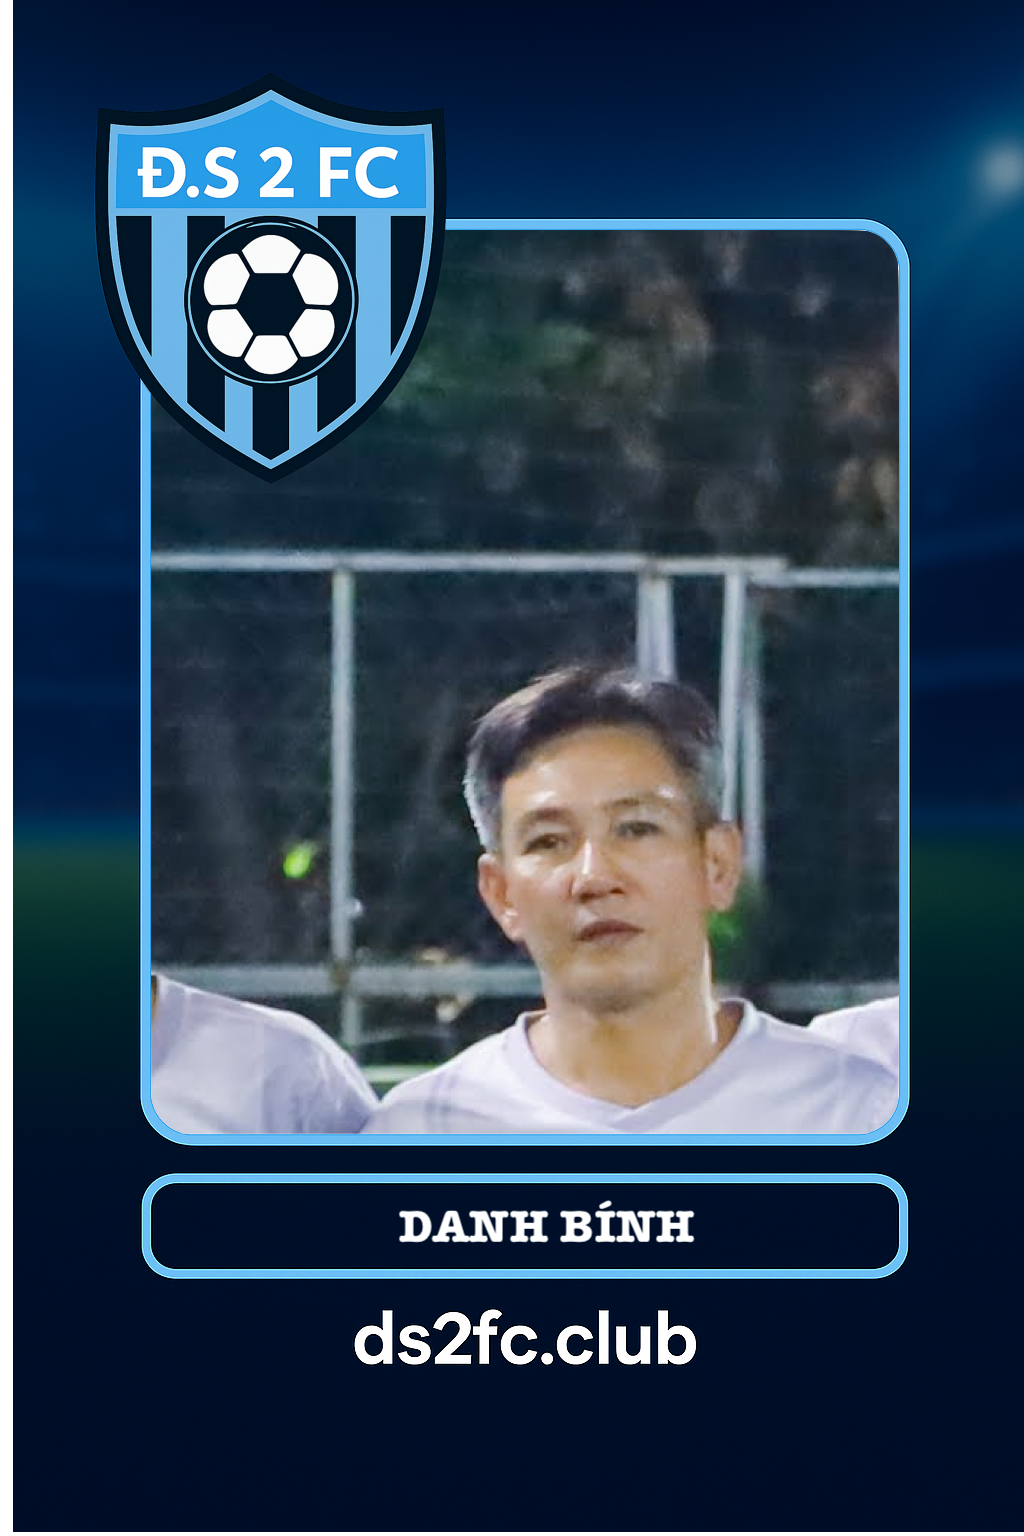
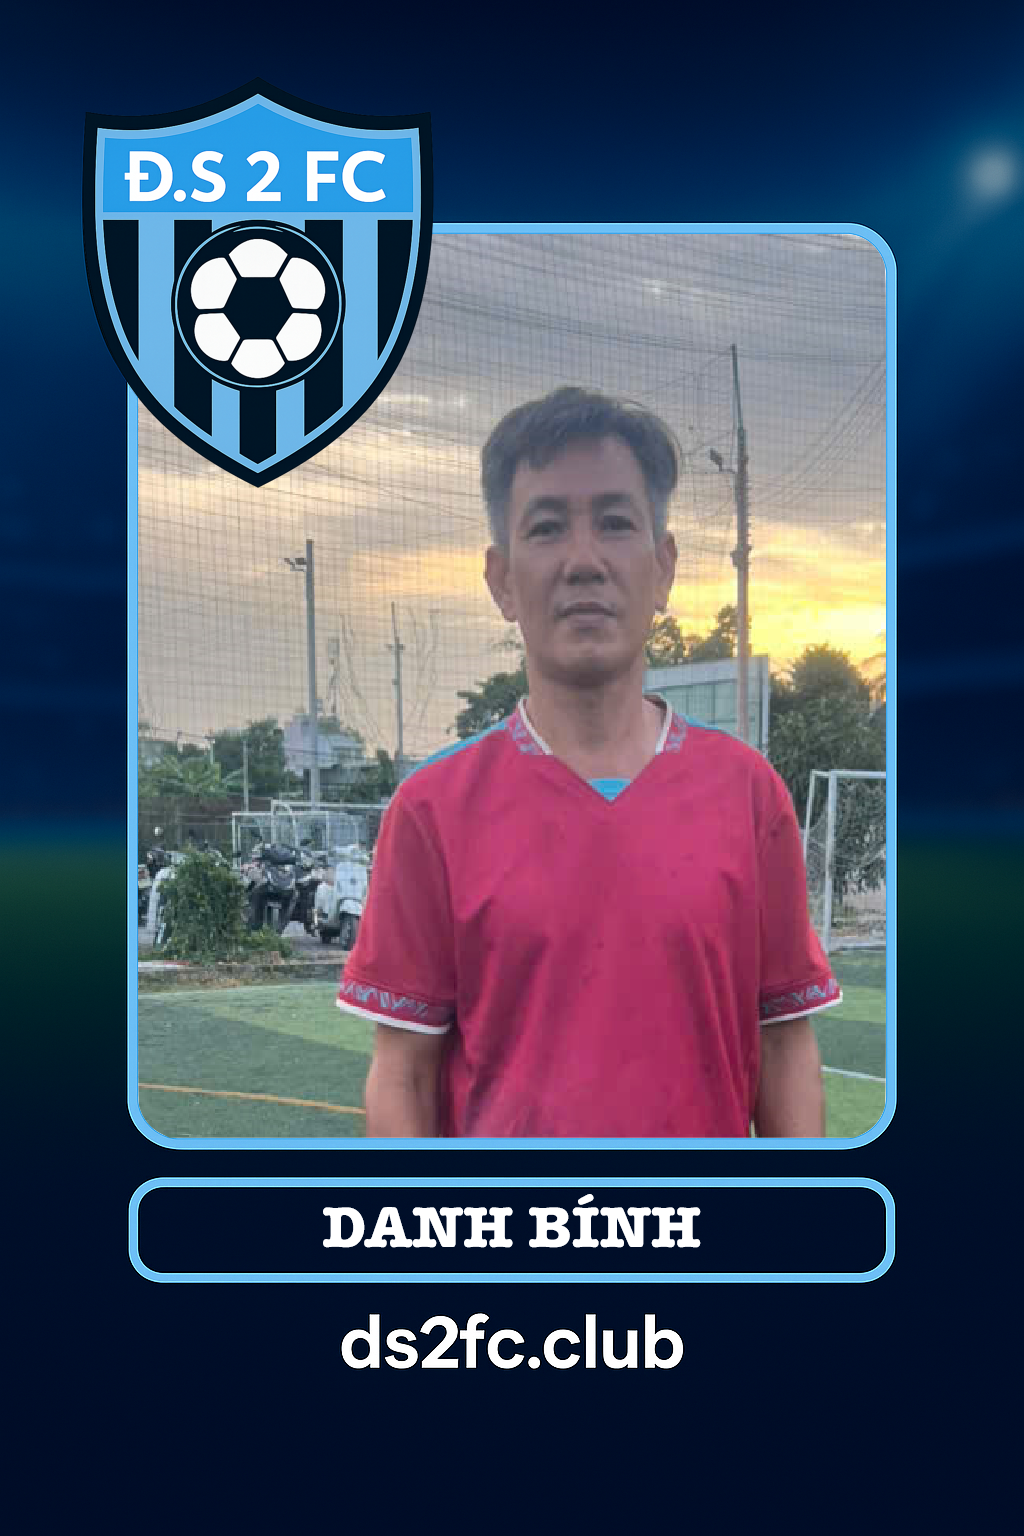
Deploy ds2fc on Thu Jul 24 12:17:05 SEAST 2025

diff --git a/flutter_service_worker.js b/flutter_service_worker.js
@@ -28,7 +28,7 @@ const RESOURCES = {"assets/AssetManifest.bin": "ec9d71df0f550d30891159817688bbe6
 "assets/assets/images/hungdoan.png": "08e155da65242fb16ca80bc5f3acb747",
 "assets/assets/images/logo.png": "b858eec0d5dfa6aa3181e070f0afdded",
 "assets/assets/images/players/abc.png": "156907de162c96ea4762dcbe102f09f0",
-"assets/assets/images/players/binhnguyendanh.png": "bf68f36f133310bbdfd185a7e83831a6",
+"assets/assets/images/players/binhnguyendanh.png": "749e9c26e78fe070faf123fbd9d97801",
 "assets/assets/images/players/buithanhvu.png": "10530ecacb4fe0752ceb1167eff27998",
 "assets/assets/images/players/buonsinoiybackda.png": "1d004a74fab84457514c5aa674109c02",
 "assets/assets/images/players/dinhlam.png": "84538c11e27dce2cdc72091377a151d5",
@@ -49,7 +49,7 @@ const RESOURCES = {"assets/AssetManifest.bin": "ec9d71df0f550d30891159817688bbe6
 "assets/assets/images/players/khai.png": "71596e2a3e98d465b46dd25bc7f89353",
 "assets/assets/images/players/nguyencuong.png": "9e577e94ad8db9d6a9eb8a818359b284",
 "assets/assets/images/players/nguyendinh.png": "68324199d76022fae2f48f09d4fd9bf3",
-"assets/assets/images/players/nguyenthanhtam.png": "7370a54fc5fbb063414e88d4c2fdc0ba",
+"assets/assets/images/players/nguyenthanhtam.png": "332c8e6b47972f8a6c28a2a6ed286d75",
 "assets/assets/images/players/nguyenthuy.png": "a561e06332fc48ee9c950f27323e66f7",
 "assets/assets/images/players/quanglam.png": "b45af4a2a5358509b4fd854030835aa5",
 "assets/assets/images/players/quangteo.png": "32f03e501999d3421c694dd0d69fd8ee",
@@ -90,7 +90,7 @@ const RESOURCES = {"assets/AssetManifest.bin": "ec9d71df0f550d30891159817688bbe6
 "canvaskit/skwasm.wasm": "39dd80367a4e71582d234948adc521c0",
 "favicon.png": "4e1c00567e5fd8927d26abb9fc4010e8",
 "flutter.js": "83d881c1dbb6d6bcd6b42e274605b69c",
-"flutter_bootstrap.js": "93178b286b421ee8d9c52fe81deae757",
+"flutter_bootstrap.js": "c7e13ed7523d8534d3ecf3c8033b9113",
 "icons/Icon-192.png": "b858eec0d5dfa6aa3181e070f0afdded",
 "icons/Icon-512.png": "90395b7ead299b7700b1ed3760e1d29e",
 "icons/Icon-maskable-192.png": "b858eec0d5dfa6aa3181e070f0afdded",

diff --git a/flutter_bootstrap.js b/flutter_bootstrap.js
@@ -39,6 +39,6 @@ _flutter.buildConfig = {"engineRevision":"8cd19e509d6bece8ccd74aef027c4ca9473630
 
 _flutter.loader.load({
   serviceWorkerSettings: {
-    serviceWorkerVersion: "7103114"
+    serviceWorkerVersion: "305036869"
   }
 });
